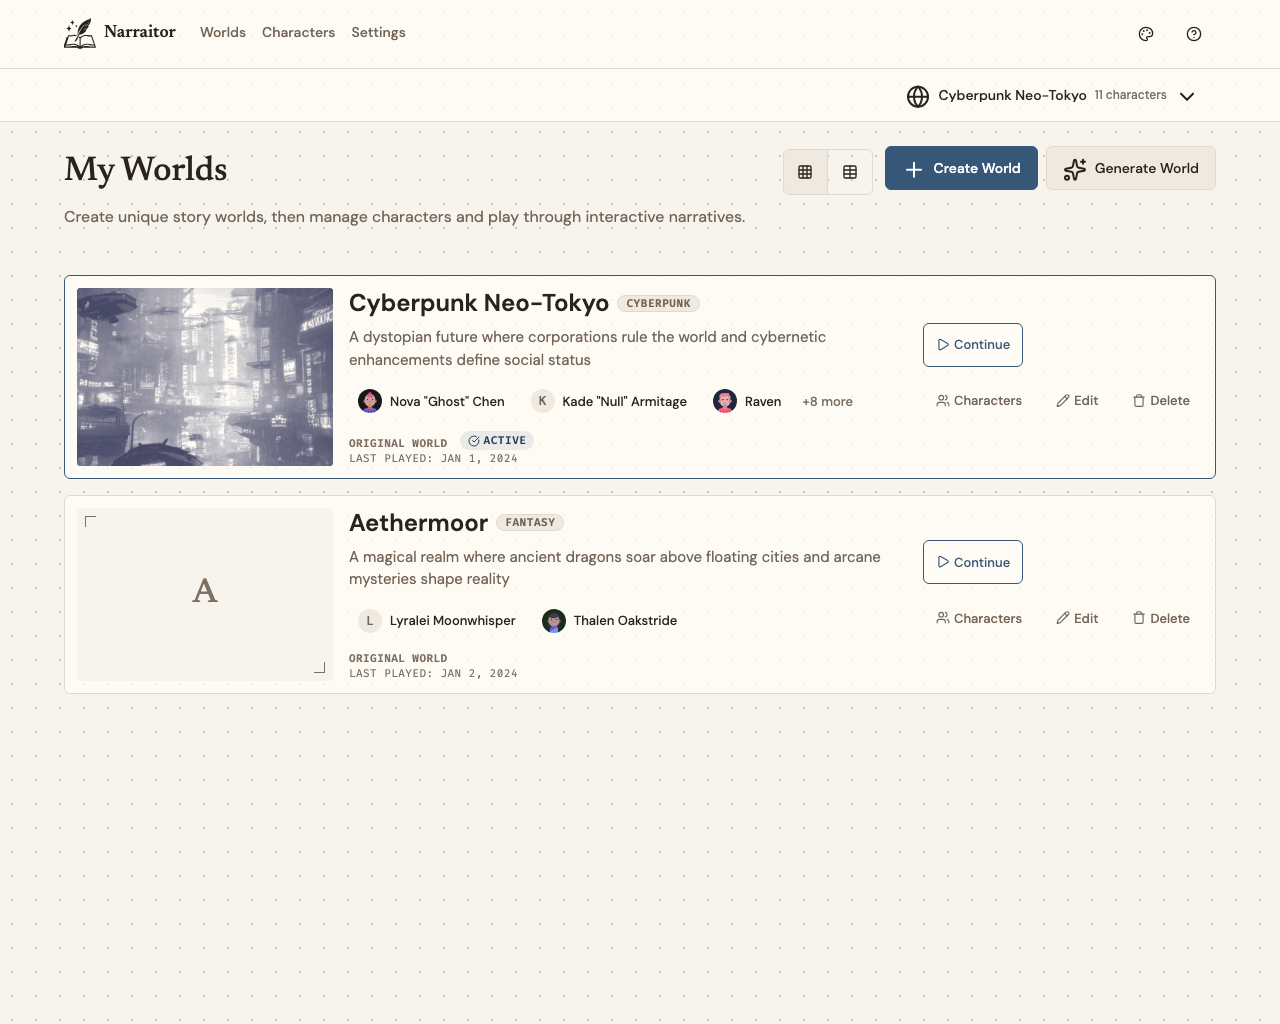
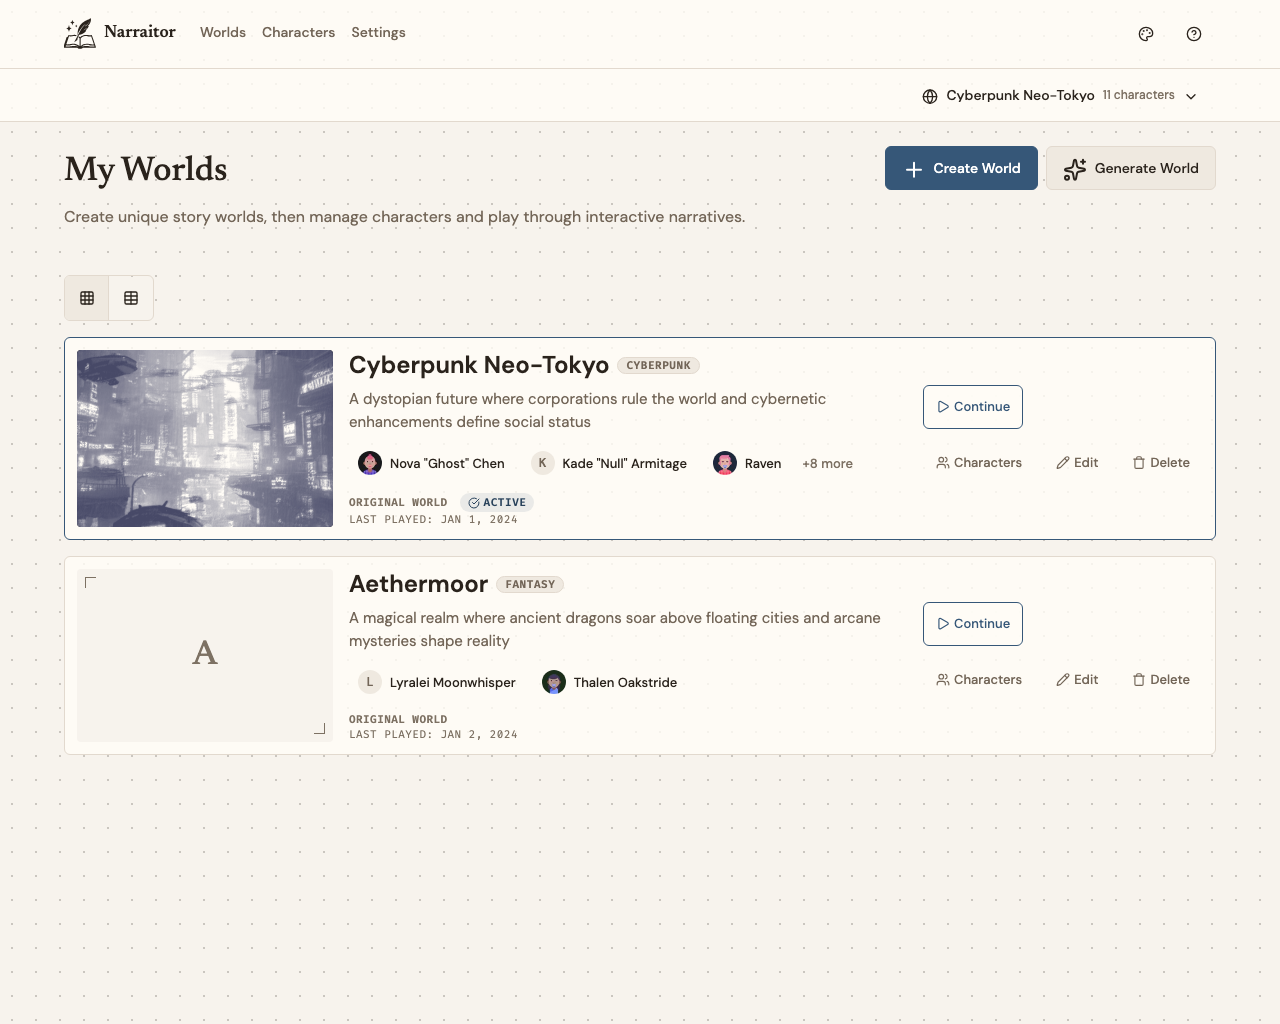
fix(worlds): refine card badge alignment and move view toggle to content toolbar
Align the Active pill vertically with the 'Original World' label by switching .world-card-type-badge from baseline to center. Give the header world switcher's Lucide SVGs explicit 1rem bounds so the globe, name, count, and chevron flex-center cleanly.

Move the grid/table view toggle out of PageLayout header actions and render it directly in a dedicated .worlds-toolbar above the collection, dropping the onViewToggleRender callback threading. Also refreshes the Worlds list PR after screenshots in light, dark, and mobile.

diff --git a/src/components/WorldListScreen/WorldListScreen.tsx b/src/components/WorldListScreen/WorldListScreen.tsx
@@ -29,14 +29,7 @@ const WorldTable = dynamic(
   { ssr: false }
 );
 
-interface WorldListScreenProps {
-  /** Callback to pass the view toggle component to parent for header placement */
-  onViewToggleRender?: (toggle: React.ReactNode) => void;
-}
-
-const WorldListScreen: React.FC<WorldListScreenProps> = ({
-  onViewToggleRender,
-}) => {
+const WorldListScreen: React.FC = () => {
   const [worlds, setWorlds] = useState<World[]>([]);
   const [currentWorldId, setCurrentWorldId] = useState<string | null>(null);
   const [loading, setLoading] = useState<boolean>(true);
@@ -53,15 +46,6 @@ const WorldListScreen: React.FC<WorldListScreenProps> = ({
     setViewMode(mode);
     writeString('local', 'world-view-mode', mode);
   };
-
-  // Pass the view toggle component to parent for header placement
-  useEffect(() => {
-    if (onViewToggleRender) {
-      onViewToggleRender(
-        <WorldViewToggle mode={viewMode} onModeChange={handleViewModeChange} />
-      );
-    }
-  }, [viewMode, onViewToggleRender]);
 
   useEffect(() => {
     try {
@@ -147,6 +131,11 @@ const WorldListScreen: React.FC<WorldListScreenProps> = ({
 
   return (
     <main className="worlds-screen">
+      {worlds.length > 0 && (
+        <div className="worlds-toolbar">
+          <WorldViewToggle mode={viewMode} onModeChange={handleViewModeChange} />
+        </div>
+      )}
       {viewMode === 'table' ? (
         <WorldTable
           worlds={worlds}

diff --git a/src/app/worlds/page.tsx b/src/app/worlds/page.tsx
@@ -74,7 +74,6 @@ export default function WorldsPage() {
   );
   const [worldName, setWorldName] = useState('');
   const [error, setError] = useState<string | null>(null);
-  const [viewToggle, setViewToggle] = useState<React.ReactNode>(null);
 
   const handleCreateWorld = () => {
     router.push('/worlds/create');
@@ -160,10 +159,7 @@ export default function WorldsPage() {
       title="My Worlds"
       description="Create unique story worlds, then manage characters and play through interactive narratives."
       actions={
-        <>
-          {viewToggle}
-          <ActionButtonGroup actions={actionButtons} layout="horizontal" gap="sm" />
-        </>
+        <ActionButtonGroup actions={actionButtons} layout="horizontal" gap="sm" />
       }
     >
       {/* World Generation Prompt */}
@@ -234,7 +230,7 @@ export default function WorldsPage() {
         </div>
       </SimpleModal>
 
-      <WorldListScreen onViewToggleRender={setViewToggle} />
+      <WorldListScreen />
     </PageLayout>
   );
 }

diff --git a/src/stories/04-templates/layouts/WorldListScreen.stories.tsx b/src/stories/04-templates/layouts/WorldListScreen.stories.tsx
@@ -1,6 +1,5 @@
 import React from 'react';
 import type { Meta, StoryObj } from '@storybook/react';
-import { fn } from '@storybook/test';
 import WorldListScreen from '@/components/WorldListScreen/WorldListScreen';
 import { useWorldStore } from '@/state/worldStore';
 import { World } from '@/types/world.types';
@@ -63,11 +62,6 @@ const meta: Meta<typeof WorldListScreen> = {
   component: WorldListScreen,
   parameters: {
     layout: 'padded',
-  },
-  args: {
-    // Explicit spy so Storybook 8 doesn't treat this on* prop as an implicit
-    // action arg, which crashes the render (the component calls it on mount).
-    onViewToggleRender: fn(),
   },
   tags: ['autodocs'],
   decorators: [

diff --git a/src/app/app-shell.css b/src/app/app-shell.css
@@ -458,6 +458,11 @@
   flex-shrink: 0;
 }
 
+.world-switcher-trigger svg {
+  width: 1rem;
+  height: 1rem;
+}
+
 .world-switcher-name {
   min-width: 0;
   max-width: 14rem;
@@ -903,6 +908,12 @@
   display: block;
 }
 
+.worlds-toolbar {
+  display: flex;
+  align-items: center;
+  margin-bottom: var(--space-4);
+}
+
 .world-list {
   display: block;
 }
@@ -963,7 +974,7 @@
 .world-card-type-badge {
   display: flex;
   flex-wrap: wrap;
-  align-items: baseline;
+  align-items: center;
   gap: var(--space-2) var(--space-3);
 }
 
